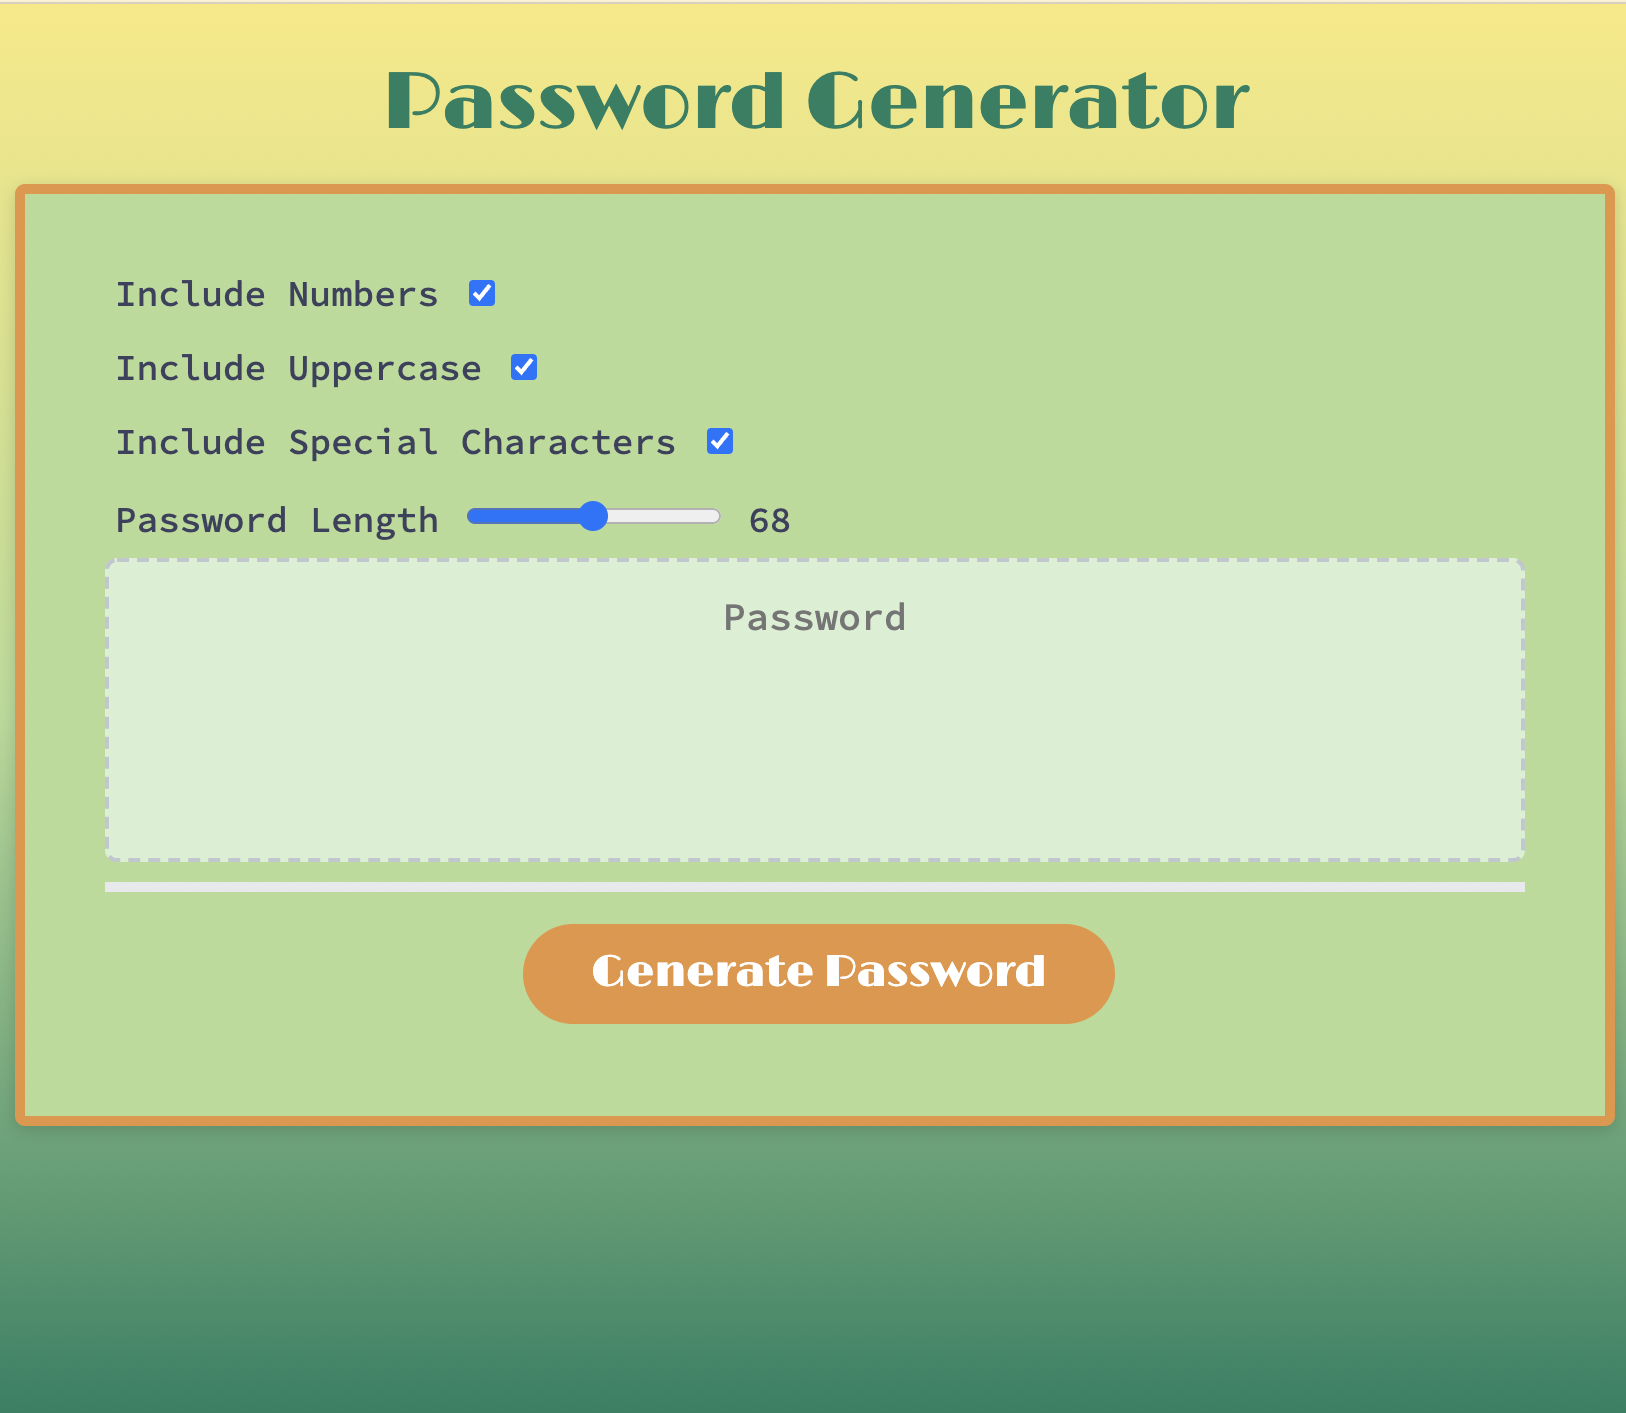
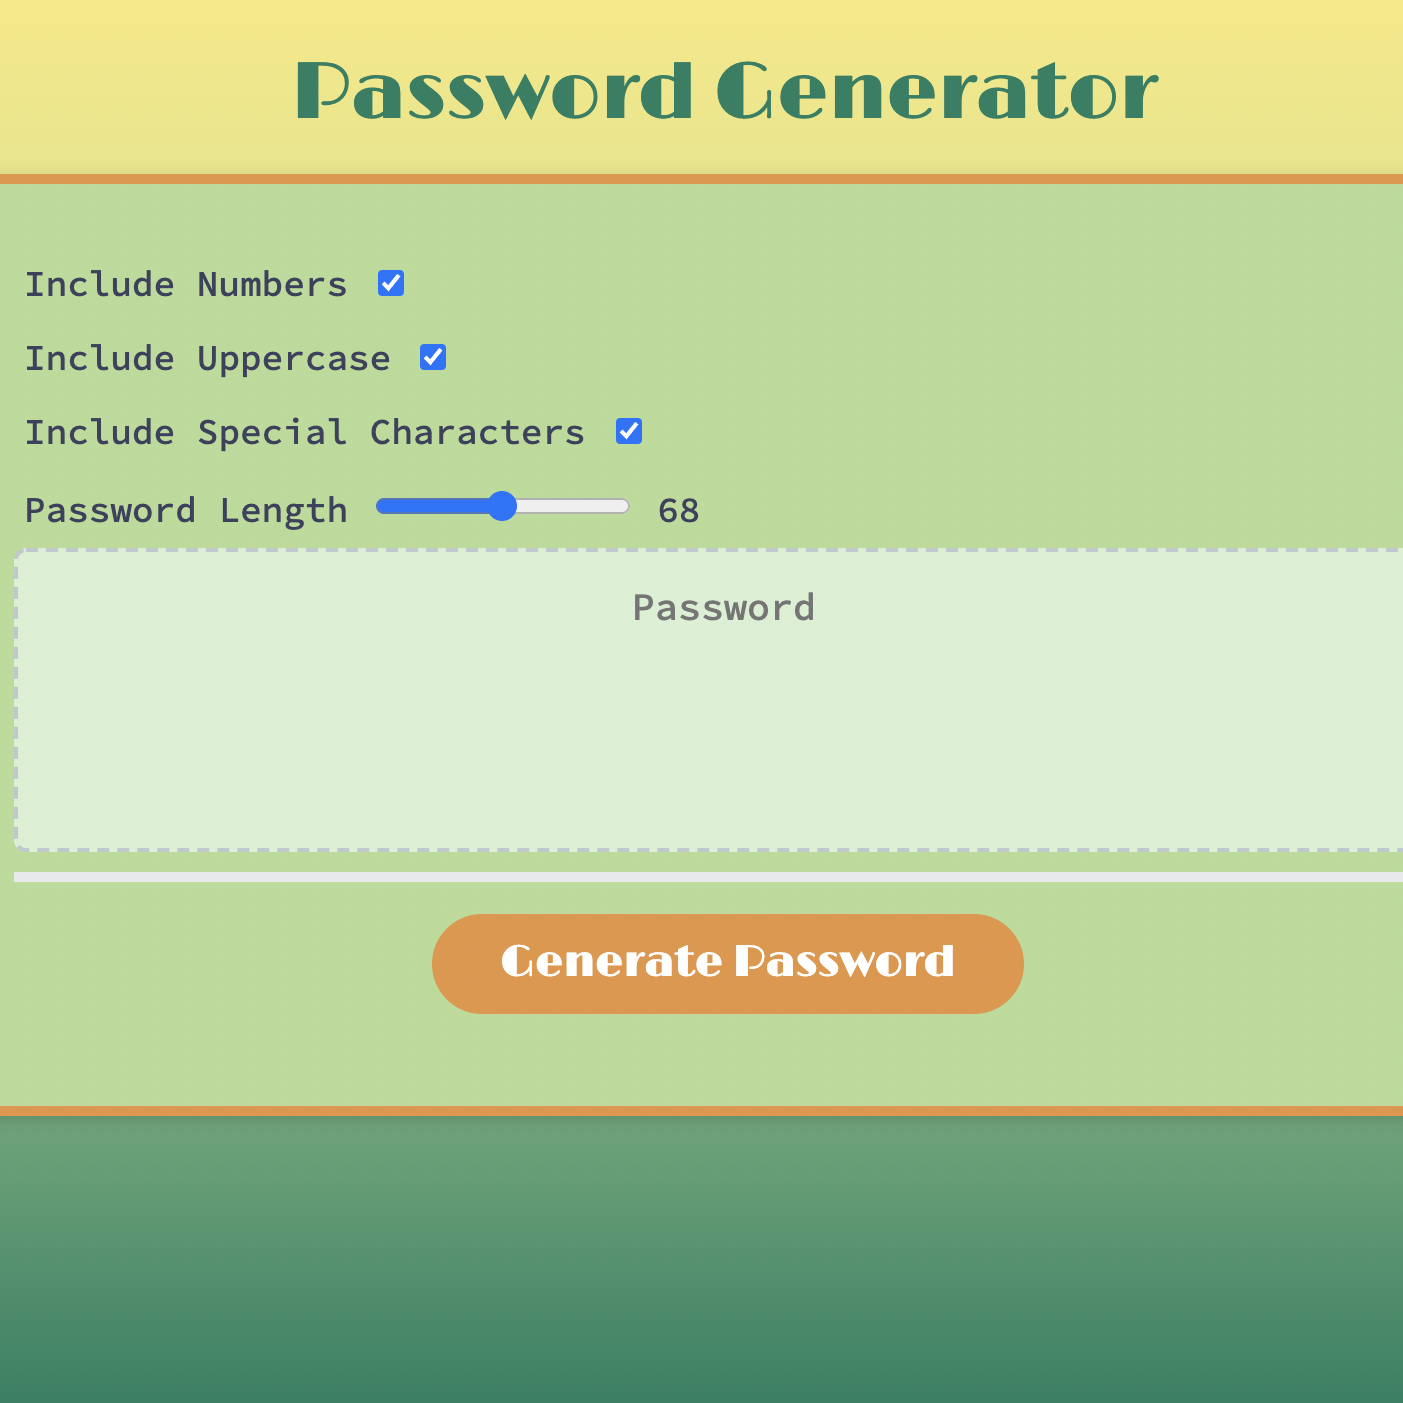
resize password gen image, add target(blank) to anchor tags, graph load on scroll, portfolio item image link, remove redundant h4 styles on portfolio, move links/title to bottom of item, remove comments

Changed region(s): [[0.0, 0.1226, 1.0, 0.7969], [0.2145, 0.0306, 0.8275, 0.0919], [0.4291, 0.4291, 0.5823, 0.4597]]

diff --git a/src/components/resume/Resume.tsx b/src/components/resume/Resume.tsx
@@ -1,15 +1,23 @@
 import './resume.scss';
+import { useInView } from 'react-intersection-observer';
 
-export default function Resume()    {
+export default function Resume(props:any)    {
+
+        const { ref, inView, entry } = useInView({
+          /* Optional options */
+            threshold: 0,
+        });
+
     return(
-        <div className='resume' id='resume'>
+        <div className='resume' id='resume' ref={ref}>
 
             <span className='line-break'></span>
             <span>
                 <p>please download my resume</p>
-                <a href='https://docs.google.com/document/d/1Oa68MMDxUopVhyH8-1eIAFD4eu-scKV7YkHLRXEt11g/edit?usp=sharing' className='download'>HERE</a>
+                <a href='https://docs.google.com/document/d/1Oa68MMDxUopVhyH8-1eIAFD4eu-scKV7YkHLRXEt11g/edit?usp=sharing' className='download' target="_blank">HERE</a>
             </span>
-            <div className='graph'>
+
+            <div className={inView ? 'graph visible' : 'graph'}>
                 <h3>proficiencies</h3>
                 {/* use intersection-observer to animate on scroll */}
                 <span className='bar css scale-in-hor-left'>CSS <p className='proficiency'>comfortable</p></span>

diff --git a/src/components/portfolio/portfolio.scss b/src/components/portfolio/portfolio.scss
@@ -4,7 +4,7 @@
 
 h3.work-title  {
   margin-top: 100px;
-  margin-bottom: 100px;
+  margin-bottom: 30px;
   width:100%;
 }
 
@@ -14,25 +14,19 @@ div.projectContainer  {
   align-items: center;
   justify-content: center;
   height:100%;
+  width: 80%;
+  margin-bottom: 100px;
 }
 
 div.projectItem {
-  margin-top: 20px;
-  width: 300px;
-  height:300px;
+  flex:25%;
+  height: 50%;
   background-size: 300px 300px;
   display:flex;
   flex-direction: column;
-  align-items: center;
+  align-items: flex-end;
   justify-content: space-around;
-  margin:10px;
-  h4  {
-    position: relative;
-    font-weight: 900;
-    font-size:20px;
-    color:black;
-    z-index: 11;
-  }
+  margin:20px;
 }
 
 img {
@@ -49,10 +43,15 @@ div.text {
   display: flex;
   flex-direction: row;
   justify-content: space-evenly;
-  top:-55%;
-  z-index: 11;
-  background-color: rgba(255, 255, 255, 0.589);
   width: 100%;
+
+  > h4  {
+    margin: 10px;
+  }
+
+  > h4:hover  {
+    color: var(--orange);
+  }
 }
 
 div.links {
@@ -62,7 +61,12 @@ div.links {
 
 .icon {
   height: 50px;
-  color: black;
+  color: var(--light-grey);
+}
+
+.icon:hover {
+  transform: scale(1.3);
+  color: var(--orange);
 }
 
 img:hover {

diff --git a/src/components/resume/resume.scss b/src/components/resume/resume.scss
@@ -11,11 +11,16 @@ a.download {
   text-decoration: none;
   color: var(--light-grey);
 }
+
 a.download:hover {
   color: var(--red);
 }
 
 div.graph {
+  display:none;
+}
+
+div.graph.visible {
   display: flex;
   flex-direction: column;
   align-items: flex-start;
@@ -32,6 +37,9 @@ span.bar {
   margin-bottom: 10px;
   height: 50px;
   background-color: var(--orange);
+
+  -webkit-animation: scale-in-hor-left 2s cubic-bezier(0.250, 0.460, 0.450, 0.940) both;
+	        animation: scale-in-hor-left 2s cubic-bezier(0.250, 0.460, 0.450, 0.940) both;
 }
 
 h3  {
@@ -51,11 +59,6 @@ span.react {
 
 p.proficiency  {
   color: rgb(83, 83, 83);
-}
-
-.scale-in-hor-left {
-	-webkit-animation: scale-in-hor-left 2s cubic-bezier(0.250, 0.460, 0.450, 0.940) both;
-	        animation: scale-in-hor-left 2s cubic-bezier(0.250, 0.460, 0.450, 0.940) both;
 }
 
 /* ----------------------------------------------

diff --git a/src/components/portfolio/Portfolio.tsx b/src/components/portfolio/Portfolio.tsx
@@ -12,9 +12,9 @@ export default function Portfolio()   {
                 { projects.map((item, i) => {
                     return (
                         <div key={i} className="projectItem">
-                            <img src={item.image}/>
+                            <a href={item.deployed} target="_blank"><img src={item.image}/></a>
                             <div className='text'>
-                            <h4>{item.name}</h4>
+                                <h4>{item.name}</h4>
                                 <div className='links'>
                                     <a href={item.gitHub}><FaGithub className='icon' /></a>
                                     <a href={item.deployed}><VscPlay className='icon' /></a>

diff --git a/src/components/contact/Contact.tsx b/src/components/contact/Contact.tsx
@@ -1,21 +1,7 @@
 import './contact.scss';
 import Form from './form/Form';
-import validateEmail from './utils/helpers';
 
 export default function Contact () {
-
-//     const [email, setEmail] = useState<String>('');
-//     const [name, setName] = useState<String>('');
-//     const [body, setBody] = useState<String>('');
-
-    
-//         } else if (inputType === 'name') {
-//             setName(inputValue);
-//         } else {
-//             setBody(inputValue);
-//         }
-//         return;
-// }
 
     return  (
         <div className='contact' id='contact'>

diff --git a/src/components/contact/contact.scss b/src/components/contact/contact.scss
@@ -5,6 +5,10 @@ div.contact {
   align-items: center;
 }
 
+div.my-info {
+  margin-bottom: 50px;
+}
+
 h2   {
   font-weight: 500;
 }
@@ -49,9 +53,16 @@ input.body {
 }
 
 form button.button {
-    height:25px;
+    height:35px;
+    margin-top: 5px;
     background-color: var(--light-grey);
     border:none;
-    border-radius: 20px;
+    border-radius: 10px;
     font-family: var(--body-font);
+    font-size: 20px;
   } 
+
+  form button.button:hover  {
+    background-color: var(--orange);
+    transform: scale(1.2);
+  }

diff --git a/src/components/contact/form/Form.tsx b/src/components/contact/form/Form.tsx
@@ -1,4 +1,4 @@
-import React, { useState } from 'react';
+import { useState } from 'react';
 import emailjs from 'emailjs-com';
 import validateEmail from '../utils/helpers';
 
@@ -6,7 +6,7 @@ export default function Form() {
 
     const Button = () =>  {
         return(
-            <button className='button' type='submit'>SEND</button>
+            <button className='button' type='submit'>send</button>
         )
     }
 

diff --git a/src/App.scss b/src/App.scss
@@ -33,6 +33,7 @@ main.sections  {
   z-index: 10;
   display: flex;
   flex-direction: column;
+  align-items: center;
   scroll-snap-type: y mandatory;
 	scrollbar-width: none;	 //for firefox
 	&::-webkit-scrollbar	{ display: none; } //for chrome
